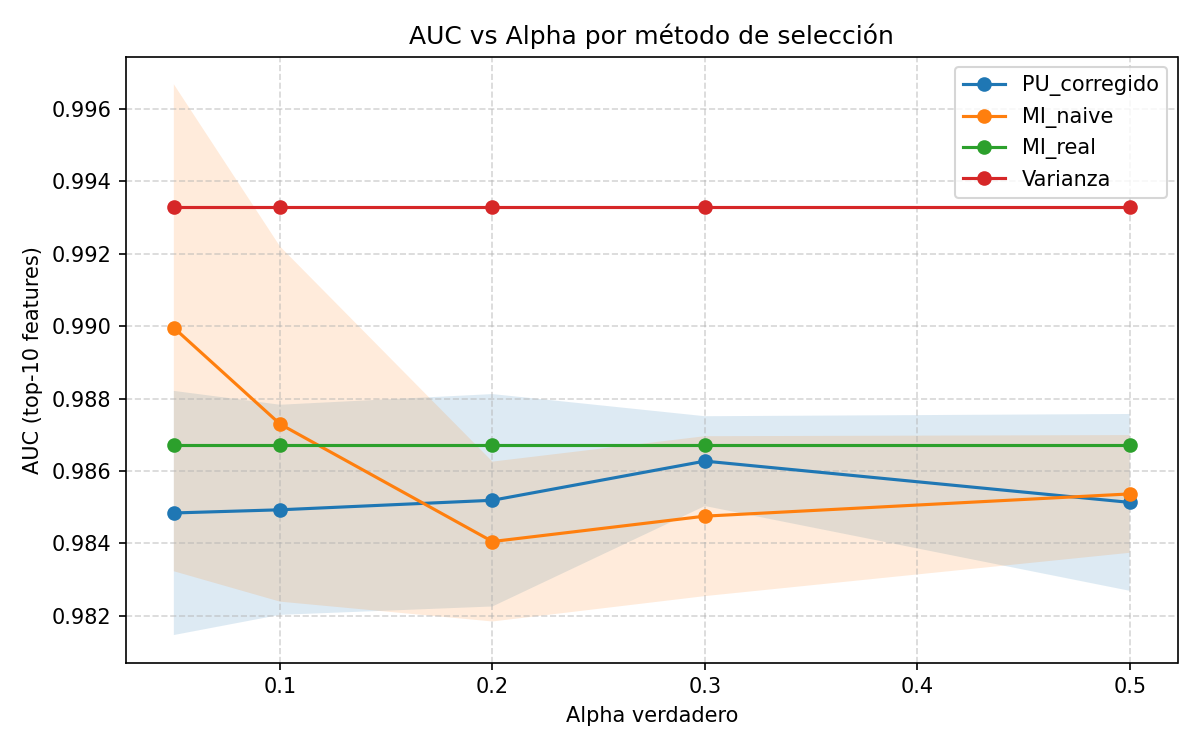
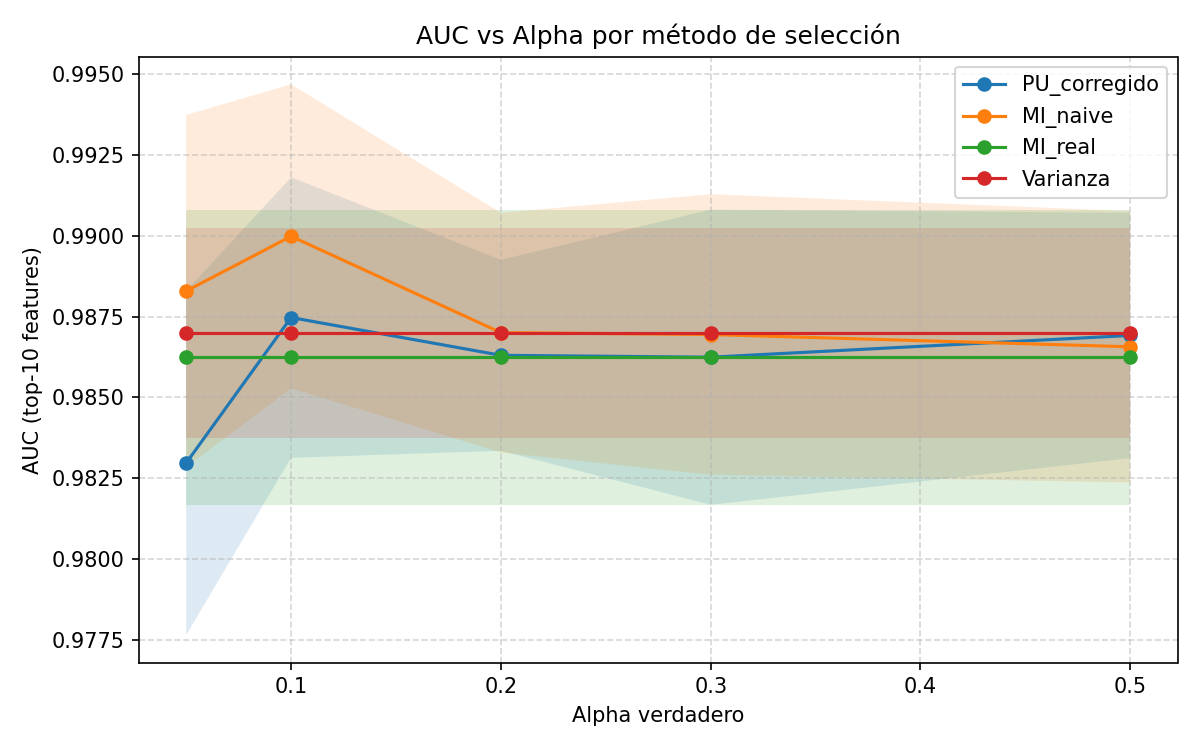
Añadir grafica y corregir estructura main

diff --git a/main.py b/main.py
@@ -6,6 +6,8 @@ import matplotlib.pyplot as plt
 import mlflow
 from sklearn.datasets import load_breast_cancer
 
+from sklearn.model_selection import train_test_split
+
 from src.data_utiles import generar_etiquetas_pu
 from src.config import *
 from src.pu_model import entrenar_clasificador_pu, estimar_alpha, obtener_scores, estimar_probabilidad_real
@@ -31,8 +33,9 @@ def main():
     with mlflow.start_run(run_name=RUN_NAME):
         mlflow.log_param("dataset", "breast_cancer")
         mlflow.log_param("run_mode", RUN_MODE)
-        mlflow.log_param("alpha_true", str(alphas) if RUN_MODE == 'sweep' else ALPHA_TRUE)
-        mlflow.log_param("random_state", str(seeds)  if RUN_MODE == 'sweep' else RANDOM_STATE)
+        if RUN_MODE != 'sweep':
+            mlflow.log_param("alpha_true", ALPHA_TRUE)
+            mlflow.log_param("random_state", RANDOM_STATE)
 
         rows = []  # acumula resultados por iteración (sweep)
 
@@ -49,22 +52,24 @@ def main():
                 if RUN_MODE == 'single':
                     mlflow.sklearn.log_model(modelo, "pu_model")
 
-                # Estimar alpha
+                # Estimar alpha (sobre todo X; el modelo PU usa S, no y)
                 scores = obtener_scores(modelo, X)
                 alpha_hat = estimar_alpha(scores, S)
                 if RUN_MODE == 'single':
                     mlflow.log_metric("alpha_estimated", float(alpha_hat))
 
-                # Rankings
-                try:
-                    p_train = estimar_probabilidad_real(scores, alpha_hat)
-                    mi_scores, ranking = calcular_mi_ranking(X, p_train, metodo="regresion", random_state=seed)
-                except Exception:
-                    ranking = np.array([])
+                # Probabilidad real estimada sobre todo X; split train/test en un solo paso
+                # para garantizar alineación. Rankings se calcularán SOLO sobre train.
+                p_y = estimar_probabilidad_real(scores, alpha_hat)
+                X_train, X_test, y_train, y_test, S_train, S_test, p_y_train, _ = \
+                    train_test_split(X, y, S, p_y, test_size=0.3, random_state=seed, stratify=y)
+                mi_scores, ranking = calcular_mi_ranking(
+                    X_train, p_y_train, metodo="regresion", random_state=seed
+                )
 
-                mi_naive_scores, ranking_naive = calcular_mi_naive(X, S)
-                mi_real_scores,  ranking_real  = calcular_mi_real(X, y)
-                var_scores,      ranking_var   = calcular_varianza(X)
+                mi_naive_scores, ranking_naive = calcular_mi_naive(X_train, S_train)
+                mi_real_scores,  ranking_real  = calcular_mi_real(X_train, y_train)
+                var_scores,      ranking_var   = calcular_varianza(X_train)
 
                 if RUN_MODE == 'single':
                     guardar_ranking("PU_corregido", ranking,       feature_names, TOP_K, mi_scores)
@@ -72,9 +77,11 @@ def main():
                     guardar_ranking("MI_real",      ranking_real,  feature_names, TOP_K, mi_real_scores)
                     guardar_ranking("Varianza",     ranking_var,   feature_names, TOP_K, var_scores)
 
-                    # Comparar métodos
+                    # Comparar métodos: train para selección y entrenamiento, test para AUC
                     resultados = comparar_metodos(
-                        X, y, S, ranking, ranking_naive, ranking_real, ranking_var, k=TOP_K
+                        X_train, X_test, y_train, y_test,
+                        ranking,
+                        ranking_naive, ranking_real, ranking_var, k=TOP_K
                     )
                     for metodo, auc in resultados.items():
                         mlflow.log_metric(f"AUC_{metodo}", float(auc))
@@ -85,11 +92,12 @@ def main():
 
                 else:  # sweep: acumular métricas de overlap y AUC
                     overlap_naive = _topk_overlap(ranking_naive, ranking_real, TOP_K)
-                    overlap_pu    = _topk_overlap(ranking, ranking_real, TOP_K) if ranking.size else np.nan
+                    overlap_pu    = _topk_overlap(ranking, ranking_real, TOP_K)
 
-                    # Comparar métodos para obtener AUC
+                    # Comparar métodos: train para selección y entrenamiento, test para AUC
                     aucs = comparar_metodos(
-                        X, y, S, ranking if ranking.size else ranking_real,
+                        X_train, X_test, y_train, y_test,
+                        ranking,
                         ranking_naive, ranking_real, ranking_var, k=TOP_K
                     )
 

diff --git a/src/evaluacion.py b/src/evaluacion.py
@@ -3,33 +3,23 @@ from sklearn.linear_model import LogisticRegression
 from sklearn.pipeline import Pipeline
 from sklearn.preprocessing import StandardScaler
 from sklearn.metrics import roc_auc_score
-from sklearn.model_selection import train_test_split
 from sklearn.feature_selection import mutual_info_classif
 
-def evaluar_clasificador_final(X, y_real, ranking, k, random_state=42):
+def evaluar_clasificador_final(X_train, X_test, y_train, y_test, ranking, k):
     """
-    Entrena un clasificador final usando las top-k características
-    y devuelve el AUC en test.
+    Entrena un clasificador final usando las top-k características (ranking calculado
+    exclusivamente sobre train) y evalúa el AUC sobre test.
+    El split debe realizarse antes de llamar a esta función.
     """
-
-    # Seleccionar top-k features
     features_seleccionadas = ranking[:k]
-
-    X_train, X_test, y_train, y_test = train_test_split(
-        X[:, features_seleccionadas],
-        y_real,
-        test_size=0.3,
-        random_state=random_state,
-        stratify=y_real
-    )
 
     modelo = Pipeline([
         ("escalado", StandardScaler()),
         ("clasificador", LogisticRegression(max_iter=1000))
     ])
 
-    modelo.fit(X_train, y_train)
-    probabilidades = modelo.predict_proba(X_test)[:, 1]
+    modelo.fit(X_train[:, features_seleccionadas], y_train)
+    probabilidades = modelo.predict_proba(X_test[:, features_seleccionadas])[:, 1]
 
     auc = roc_auc_score(y_test, probabilidades)
 
@@ -75,9 +65,7 @@ def calcular_varianza(X):
 
 
 def comparar_metodos(
-    X,
-    y_real,
-    S,
+    X_train, X_test, y_train, y_test,
     ranking_pu,
     ranking_naive,
     ranking_real,
@@ -86,24 +74,26 @@ def comparar_metodos(
 ):
     """
     Compara distintos métodos de selección usando AUC.
+    Los rankings deben estar calculados exclusivamente sobre X_train.
+    El AUC se evalúa sobre X_test.
     """
 
     resultados = {}
 
     resultados["PU_corregido"] = evaluar_clasificador_final(
-        X, y_real, ranking_pu, k
+        X_train, X_test, y_train, y_test, ranking_pu, k
     )
 
     resultados["MI_naive"] = evaluar_clasificador_final(
-        X, y_real, ranking_naive, k
+        X_train, X_test, y_train, y_test, ranking_naive, k
     )
 
     resultados["MI_real"] = evaluar_clasificador_final(
-        X, y_real, ranking_real, k
+        X_train, X_test, y_train, y_test, ranking_real, k
     )
 
     resultados["Varianza"] = evaluar_clasificador_final(
-        X, y_real, ranking_varianza, k
+        X_train, X_test, y_train, y_test, ranking_varianza, k
     )
 
     return resultados

diff --git a/src/config.py b/src/config.py
@@ -11,4 +11,4 @@ SWEEP_SEEDS = [0, 1, 2, 3, 4]
 # Parámetros generales
 TOP_K = 10
 EXPERIMENT_NAME = "breast_cancer"
-RUN_NAME = "v2.0.1"
+RUN_NAME = "v2.2.0"
